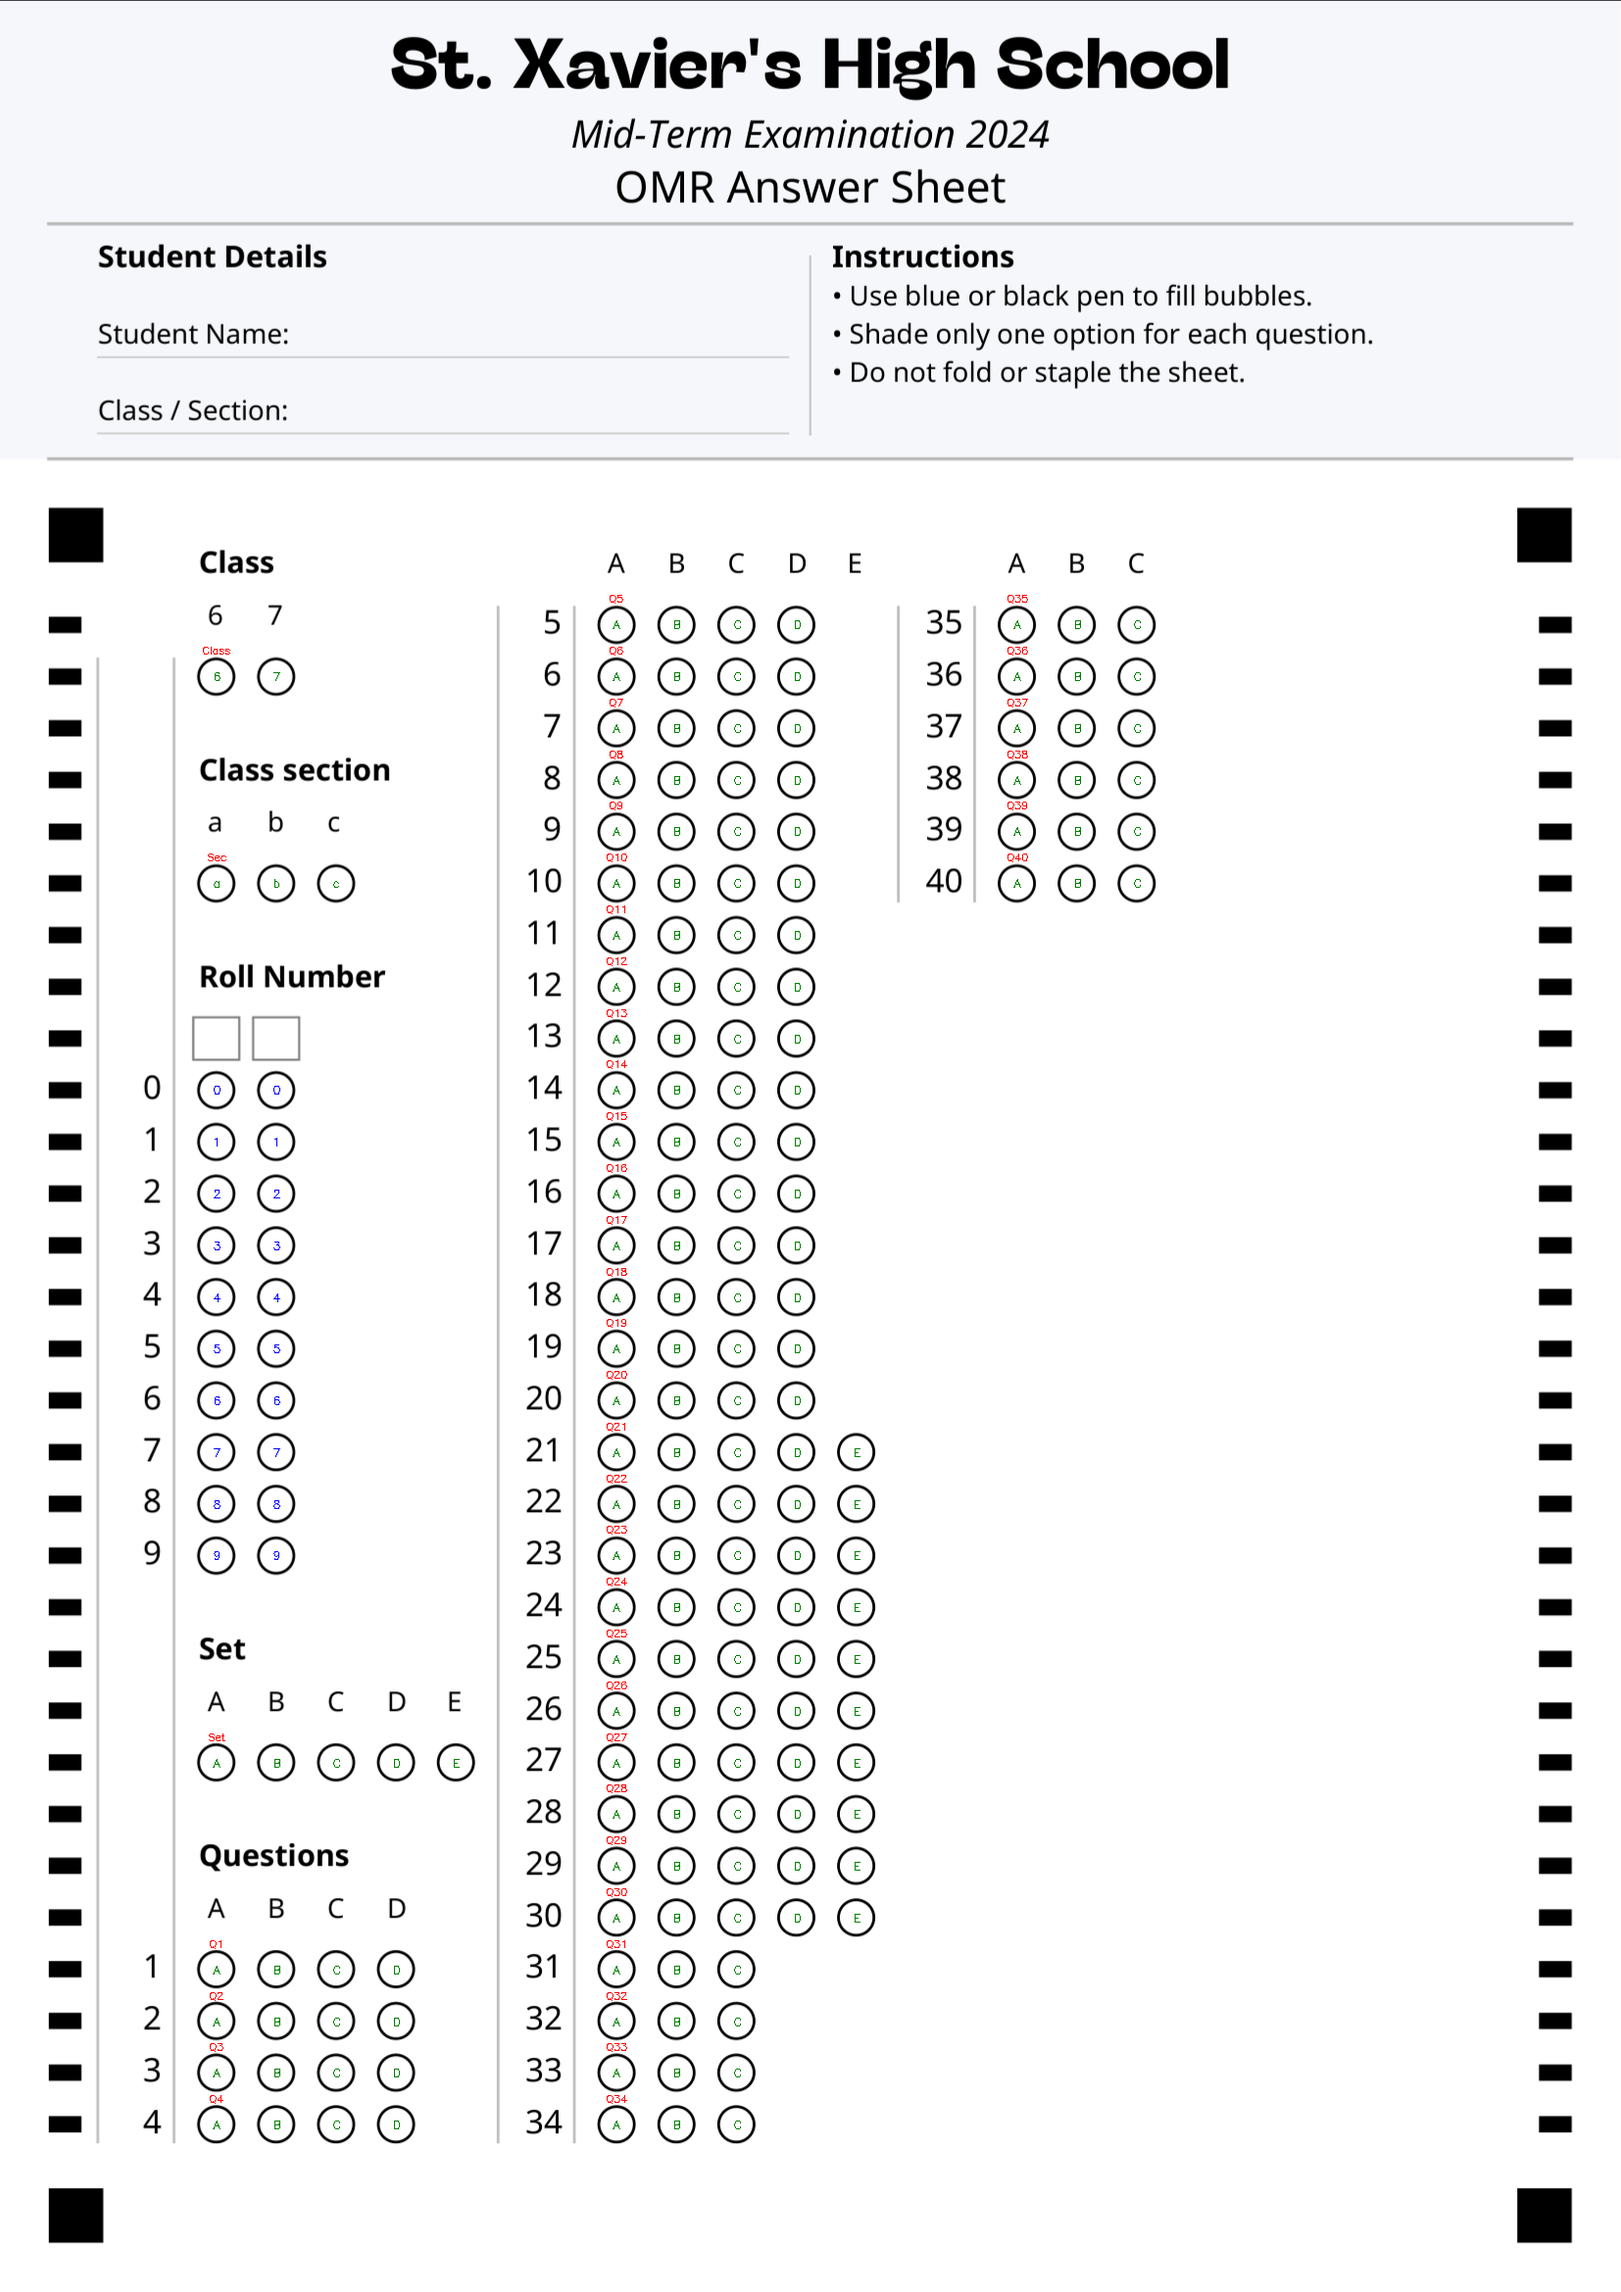
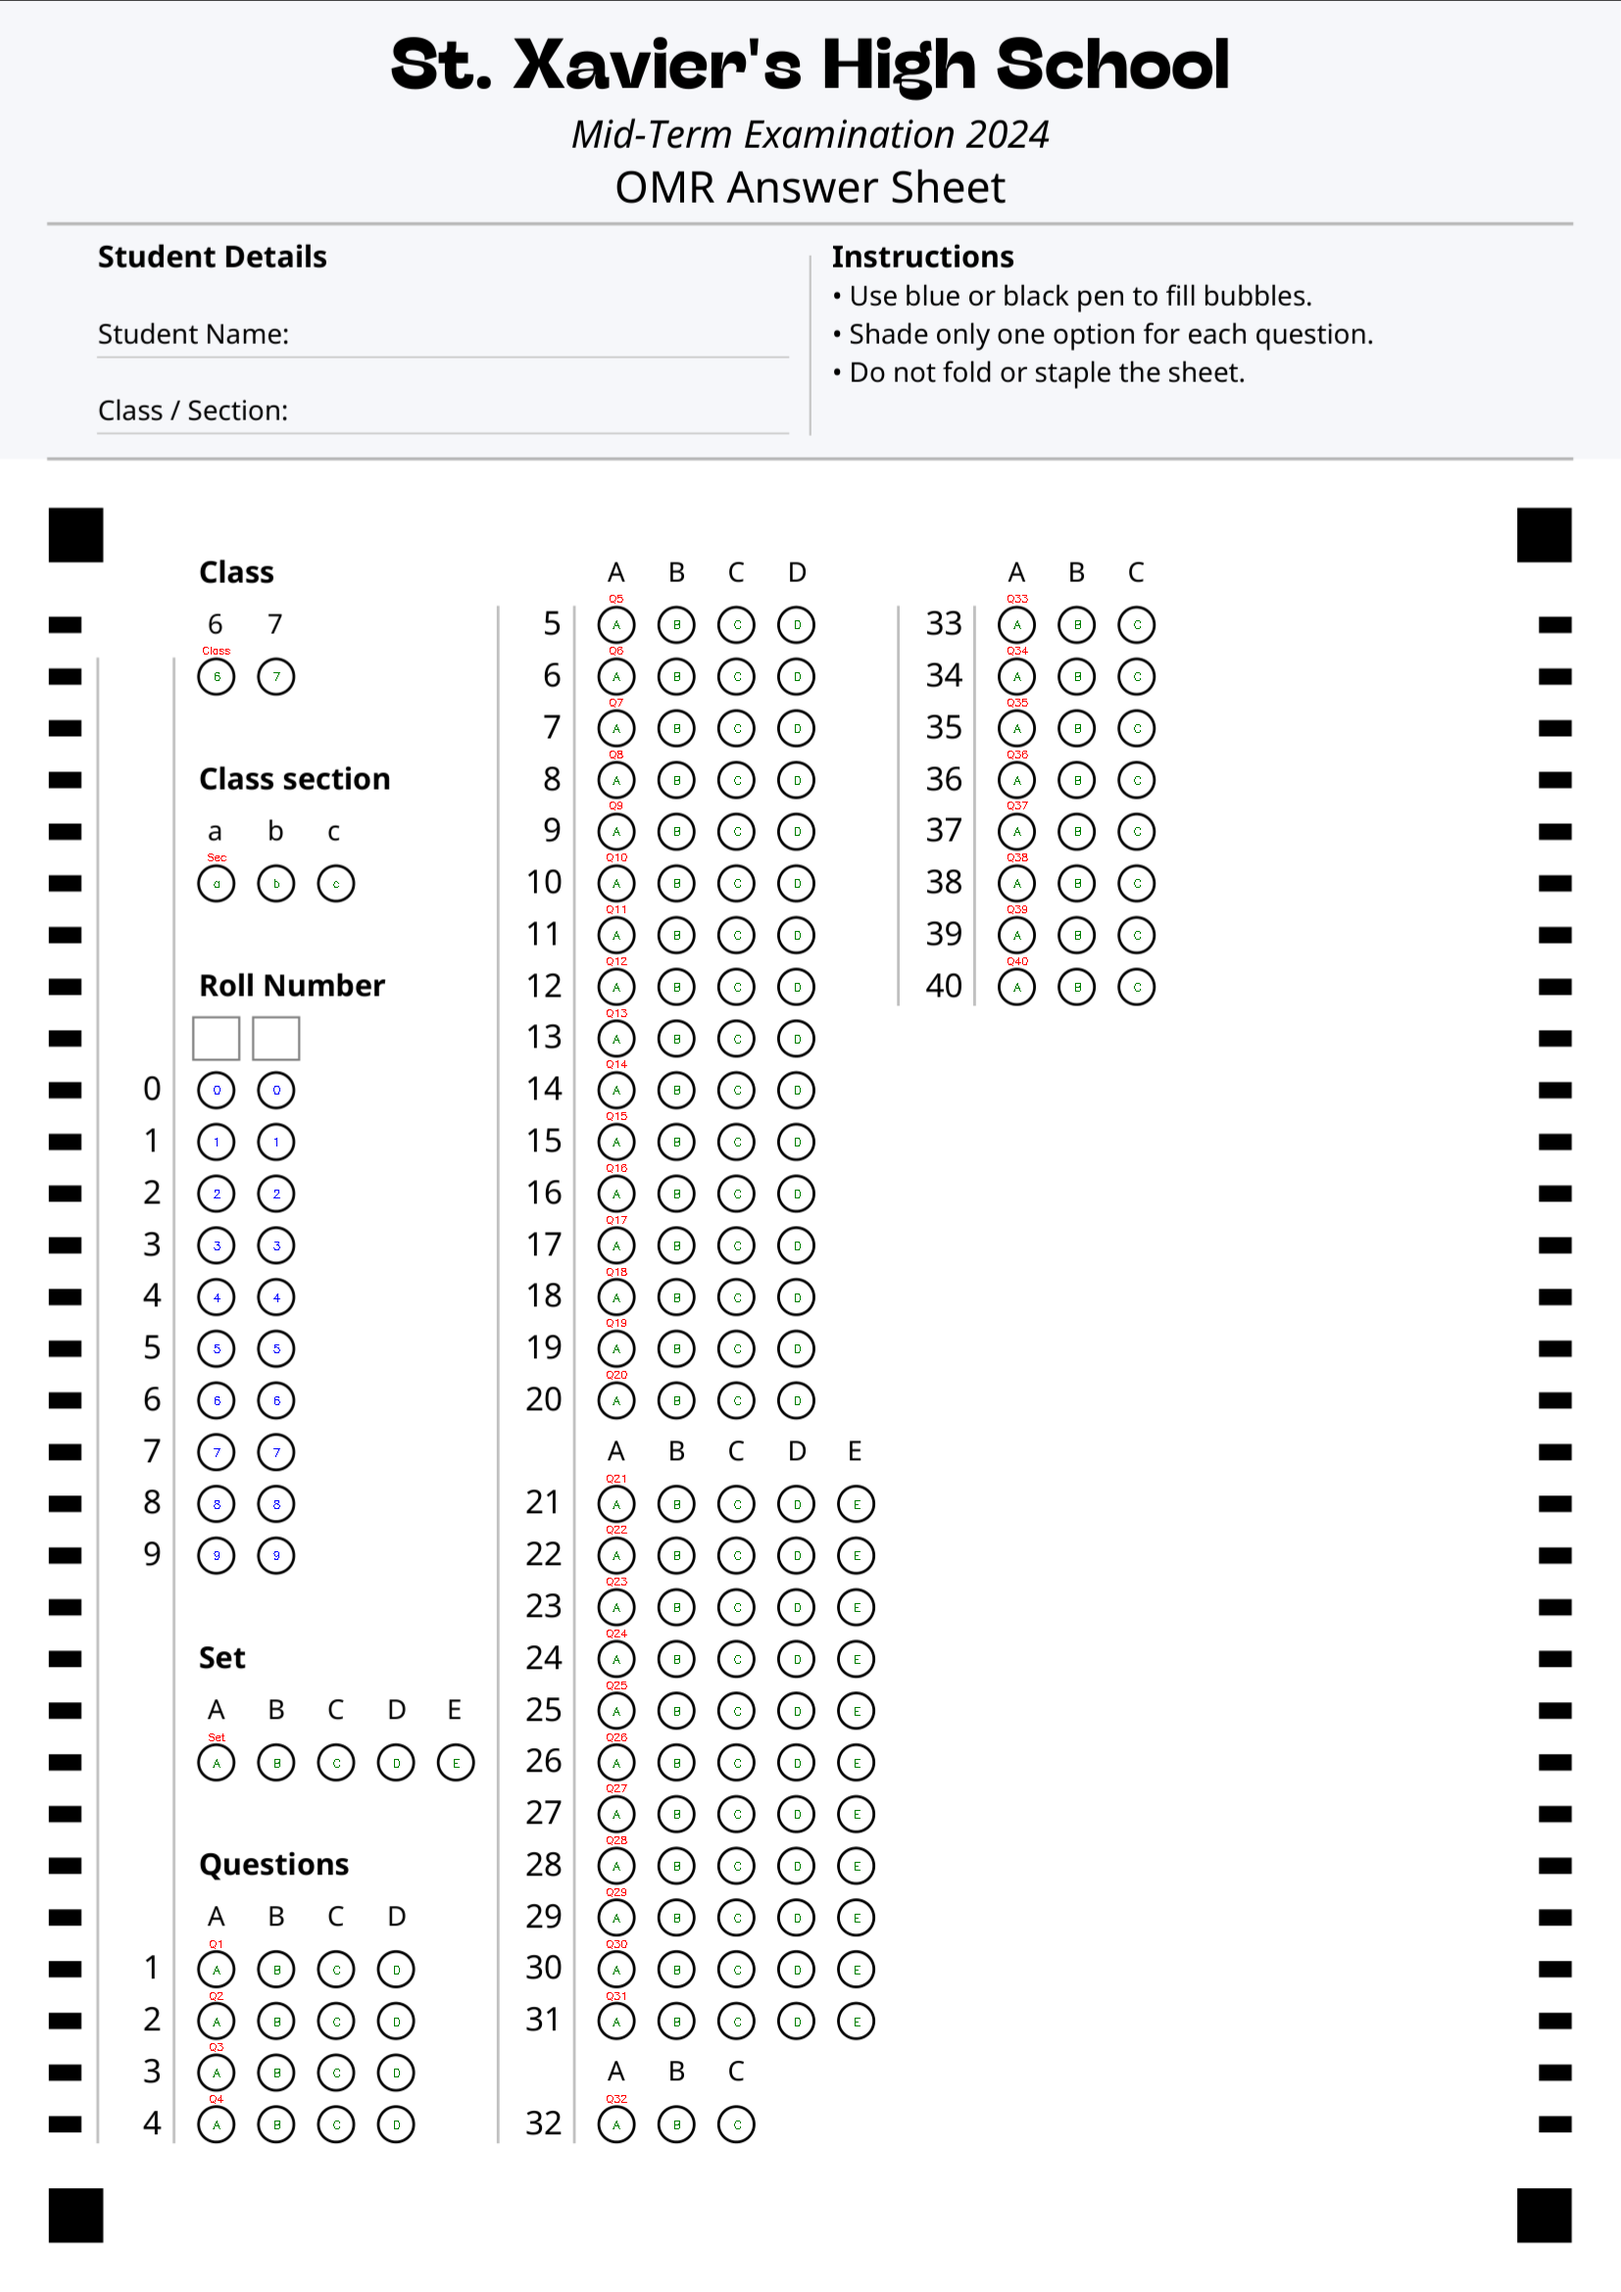
Prevent orphaned single-question segments in columns
Require minimum of 2 questions when transitioning to new option count,
preventing confusing single-question segments without proper context.

Checks:
1. Count remaining questions with new option count (not just empty rows)
2. Ensure at least 2 questions exist in new segment
3. Ensure at least 2 rows available for placement
4. Generate phase respects question_end from pre-calculate phase

Example fix:
- Q1-Q30: 5 options, Q31: 3 options (alone)
- Before: Q31 orphaned at end with wrong header
- After: Q31 pushed to next column with proper A B C header

diff --git a/omr_layout.py b/omr_layout.py
@@ -431,14 +431,28 @@ def pre_calculate_column_assignments(
 
             # Detect option count transition
             if question_opts != current_header_options:
-                # Check if there's at least one more bubble row after this for the new segment
-                has_future_question_row = any(
-                    future.row_type == "bubbles" and future.section_category == "question"
-                    for future in row_allocations[idx + 1:]
+                # Count how many questions with the NEW option count remain
+                # We need at least 2 questions in the new segment to avoid orphans
+                remaining_questions_in_new_segment = 0
+                temp_counter = question_counter
+
+                while temp_counter <= (sheet.max_questions or float('inf')):
+                    temp_opts = sheet.get_question_options(temp_counter)
+                    if temp_opts is None:
+                        break
+                    if temp_opts == question_opts:
+                        remaining_questions_in_new_segment += 1
+                    temp_counter += 1
+
+                # Also check if we have enough rows
+                future_question_rows = sum(
+                    1 for future in row_allocations[idx + 1:]
+                    if future.row_type == "bubbles" and future.section_category == "question"
                 )
 
-                if not has_future_question_row:
-                    # No room for questions after header, stop here
+                if remaining_questions_in_new_segment < 2 or future_question_rows < 2:
+                    # Not enough questions in new segment OR not enough rows available
+                    # This prevents orphaned single questions at column end
                     break
 
                 # Reserve this row for transition header
@@ -582,6 +596,13 @@ def generate_all_bubble_coordinates(
                 if allocation.section_category == "question" and sheet.max_questions is not None:
                     if question_counter > sheet.max_questions:
                         reached_max_questions = True
+                        break
+
+                # Check if we've reached the end of questions for this column
+                # (pre_calculate may have stopped early due to orphan prevention)
+                if allocation.section_category == "question" and col_info.question_end is not None:
+                    if question_counter > col_info.question_end:
+                        # Stop placing questions in this column
                         break
 
                 # Create bubble group
